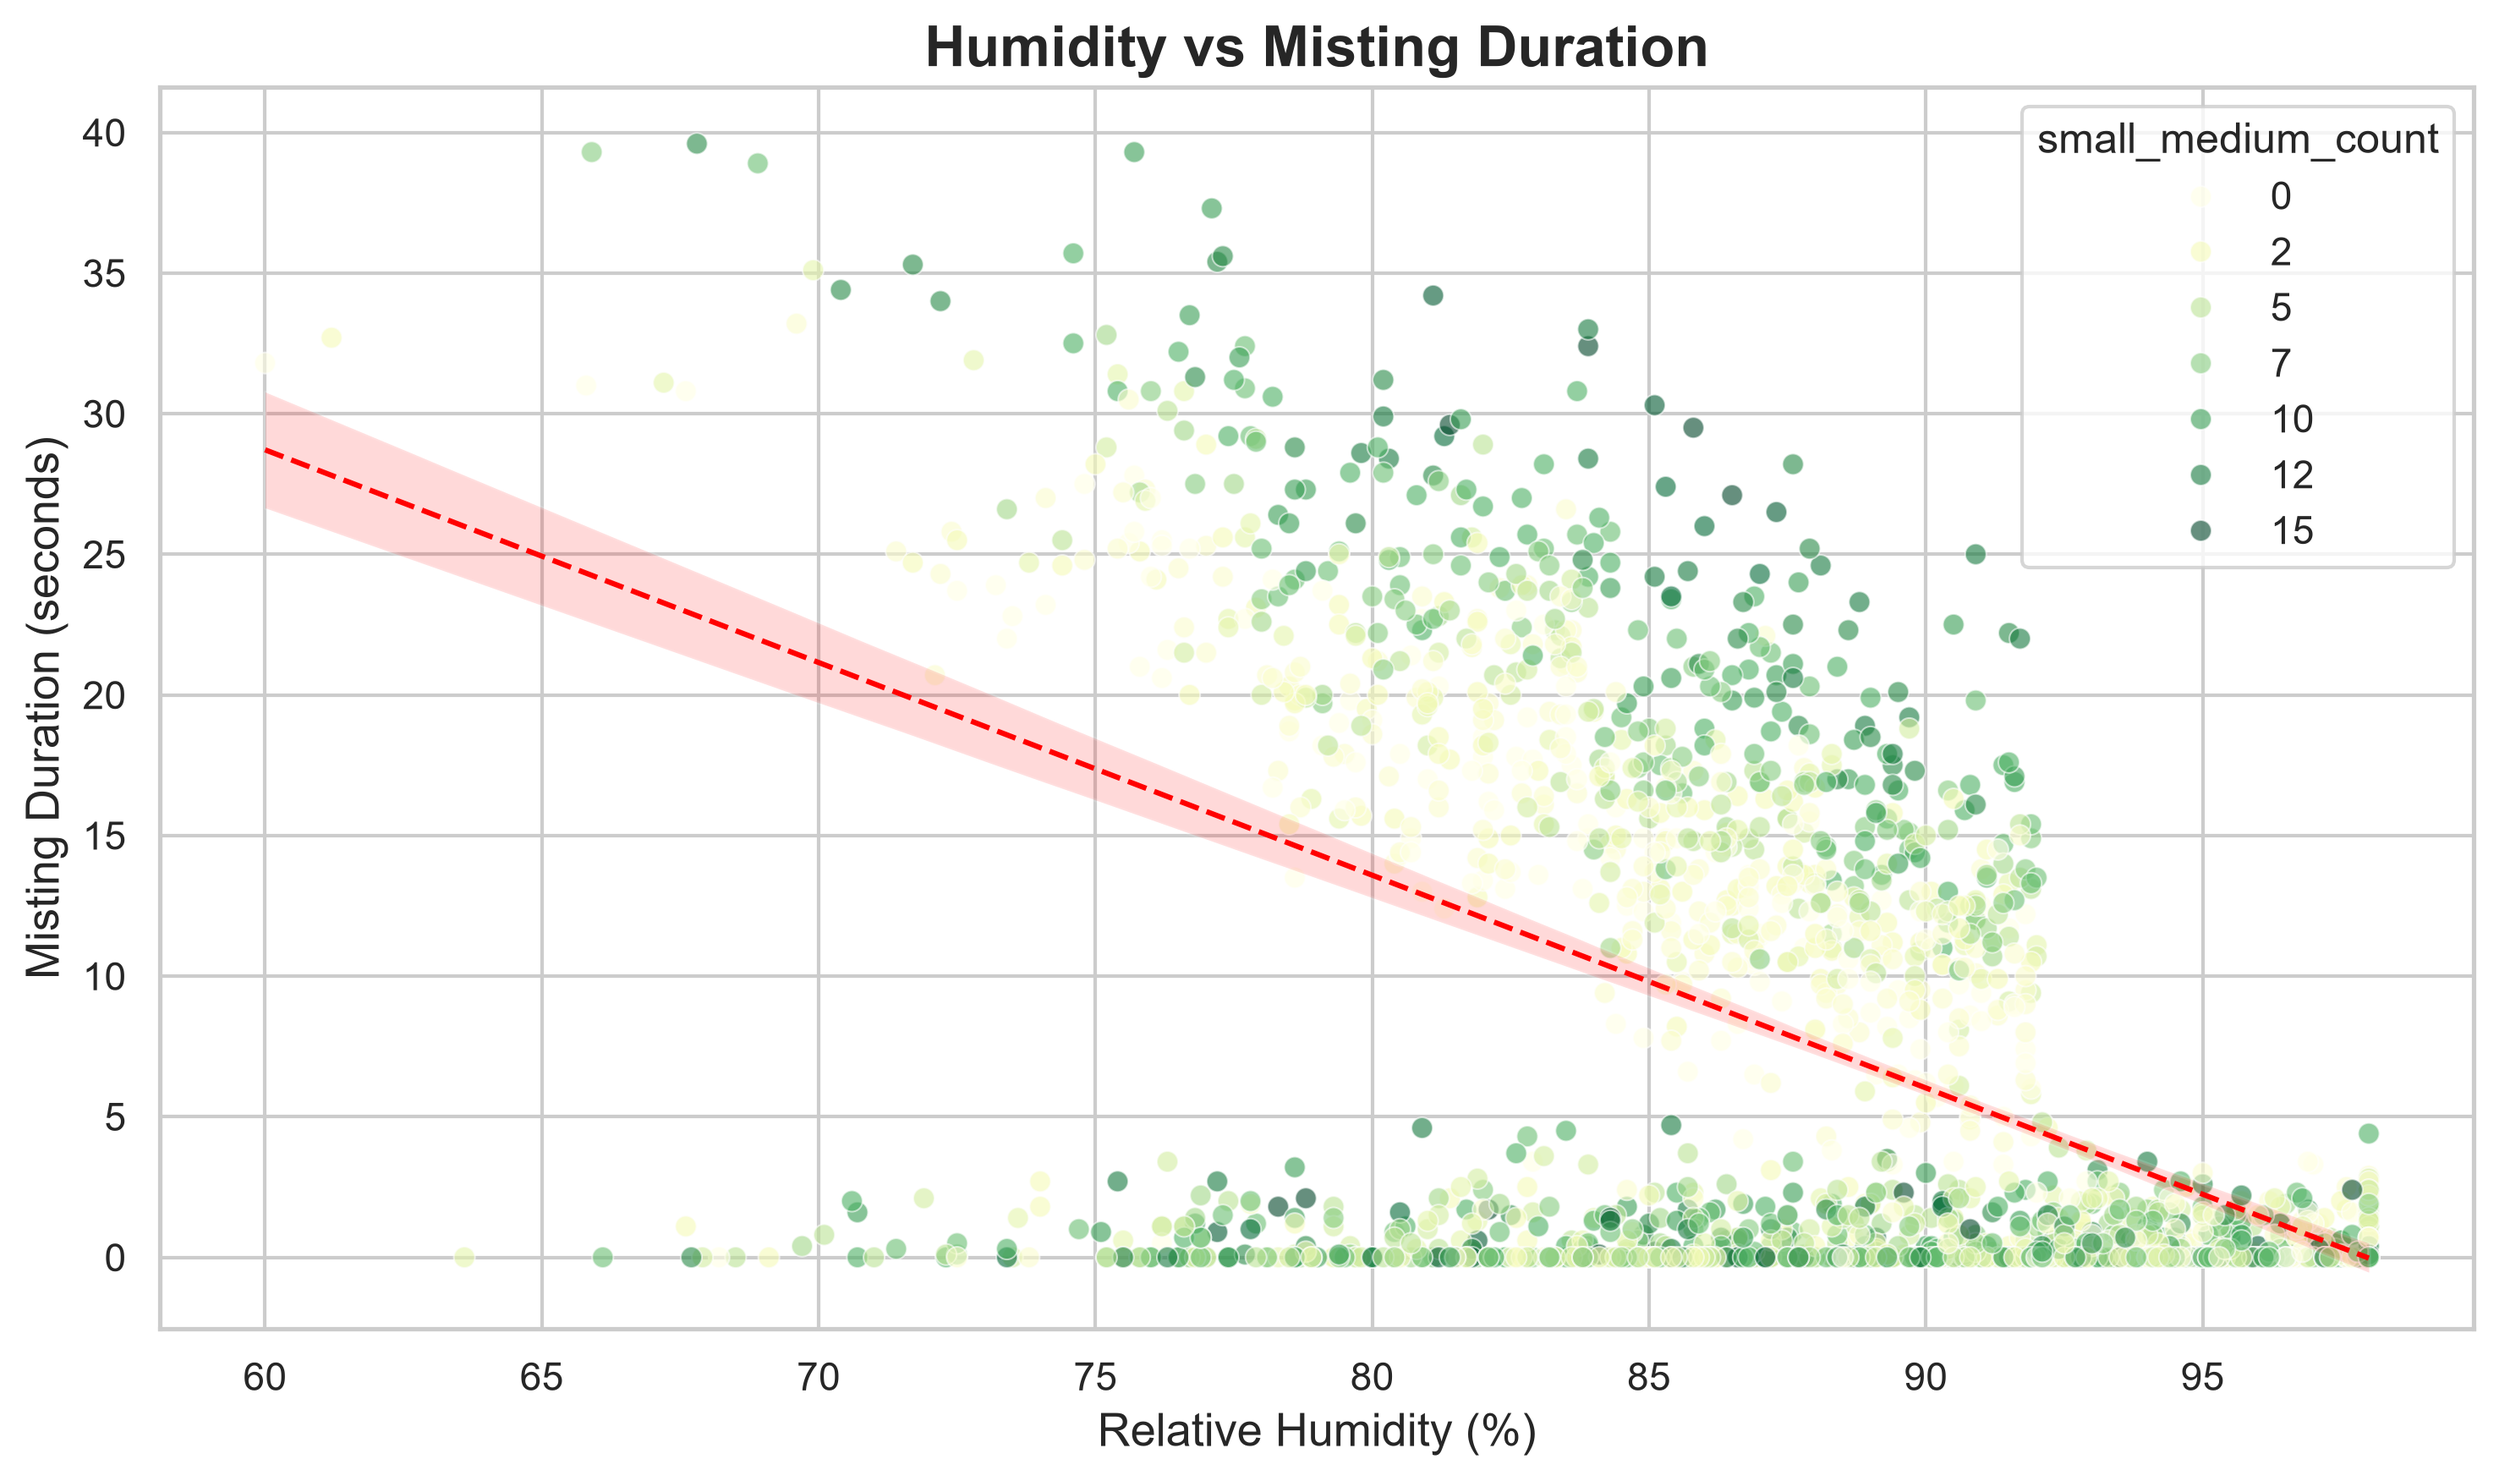
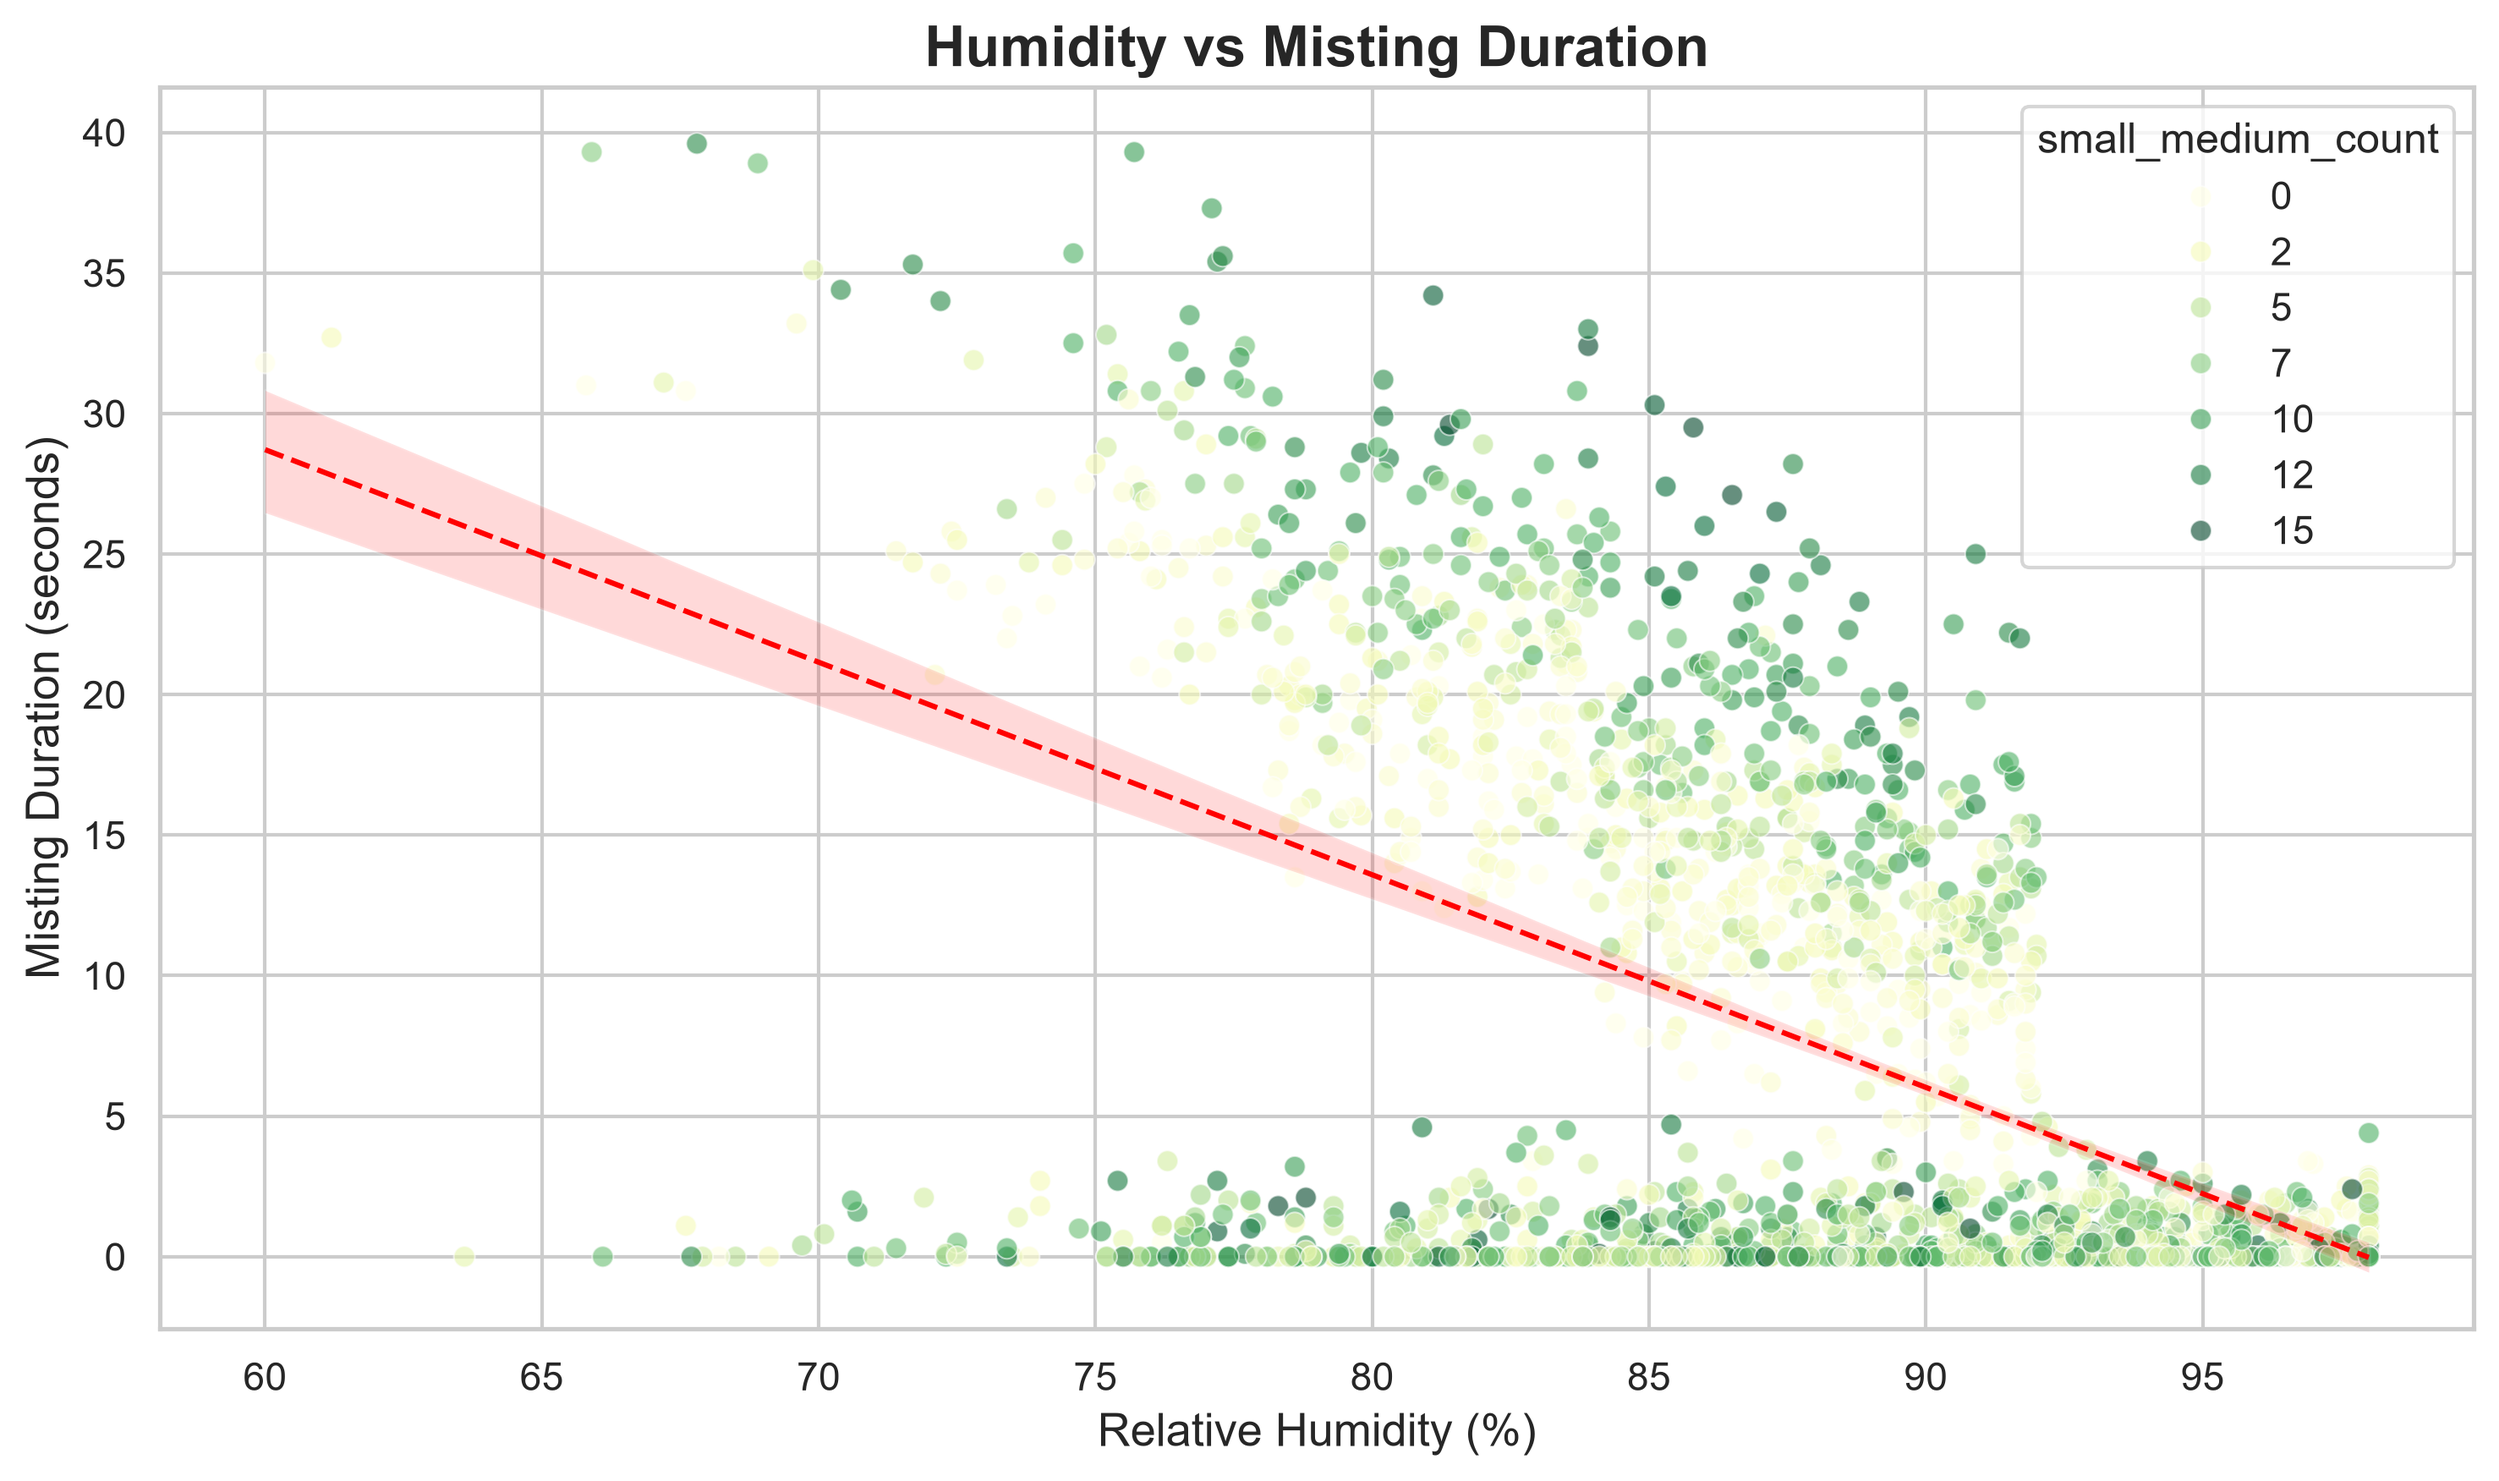
fix: rename actual_vs_predicted's y=x line from 'Perfect prediction' to 'Ideal (predicted = actual)'

diff --git a/rf_mushroom_model/scripts/mushroom_rf_pipeline.py b/rf_mushroom_model/scripts/mushroom_rf_pipeline.py
@@ -444,13 +444,16 @@ plt.savefig("feature_importance.png", dpi=300, bbox_inches="tight")
 plt.close()
 log("Saved: feature_importance.png")
 
-# Graph 2 — Actual vs Predicted, with BOTH the perfect-prediction line AND a fitted
+# Graph 2 — Actual vs Predicted, with BOTH a fixed y=x reference line AND a fitted
 # trend line through the real predictions, so systematic bias is visible (not just
-# scatter tightness).
+# scatter tightness). The reference line is labelled "Ideal" rather than "Perfect
+# prediction" -- it's a fixed mathematical target (predicted == actual), not a
+# claim that the model achieved it; the fitted trend line below is the model's
+# actual performance.
 fig, ax = plt.subplots(figsize=(10, 6))
 sns.scatterplot(x=y_test, y=y_pred, alpha=0.6, color="#2e7d32", ax=ax)
 mn, mx = min(y_test.min(), y_pred.min()), max(y_test.max(), y_pred.max())
-ax.plot([mn, mx], [mn, mx], "r--", linewidth=1.5, label="Perfect prediction")
+ax.plot([mn, mx], [mn, mx], "r--", linewidth=1.5, label="Ideal (predicted = actual)")
 slope, intercept = np.polyfit(y_test, y_pred, 1)
 fit_x = np.array([mn, mx])
 ax.plot(fit_x, slope * fit_x + intercept, color="#1565c0", linewidth=1.5,
